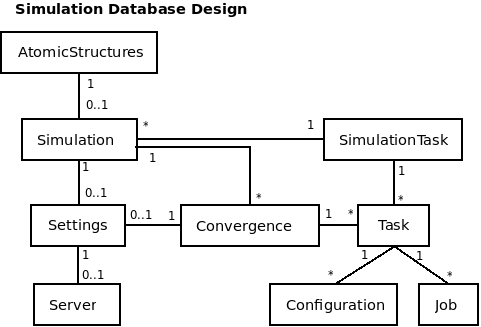
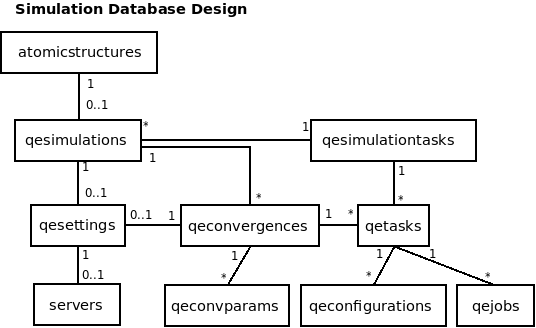
Updated database diagram for QE
git-svn-id: svn://danse.us/VNET/vnf/branches/beta-useluban/vnfb@2522 056da4b6-1853-4d91-9082-68a8d0adb2e4

diff --git a/vnfb/dom/QEConvergence.py b/vnfb/dom/QEConvergence.py
@@ -50,6 +50,7 @@ class QEConvergence(QETable):
     label       = dsaw.db.varchar(name="label", length=128, default='')
     label.meta['tip'] = "Label associated with the simulation"
 
+    # Status
 
 __date__ = "$Apr 21, 2010 5:23:35 PM$"
 
